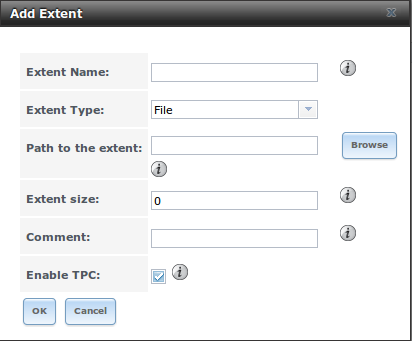
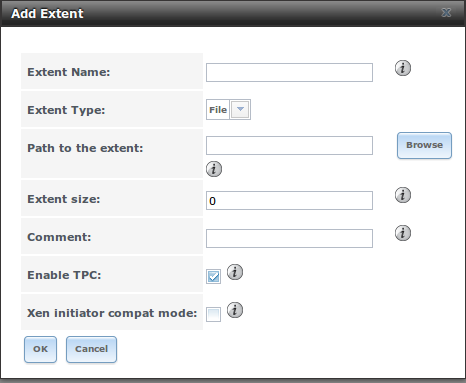
Add Xen initiator compat mode to docs.

diff --git a/docs/userguide/freenas_sharing.rst b/docs/userguide/freenas_sharing.rst
@@ -1317,8 +1317,8 @@ Table 10.5f summarizes the settings that can be configured when creating an exte
 |extent.png|
 
 .. |extent.png| image:: images/extent.png
-    :width: 3.5in
-    :height: 2.8in
+    :width: 3.9in
+    :height: 3.2in
 
 **Table 10.5f: Extent Configuration Settings**
 
@@ -1356,6 +1356,10 @@ Table 10.5f summarizes the settings that can be configured when creating an exte
 +--------------------+----------------+----------------------------------------------------------------------------------------------------------------------+
 | Enable TPC         | checkbox       | if checked, an initiator can bypass normal access control and access any scannable target; this allows               |
 |                    |                | :command:`xcopy` operations otherwise blocked by access control                                                      |
+|                    |                |                                                                                                                      |
++--------------------+----------------+----------------------------------------------------------------------------------------------------------------------+
+| Xen initiator      | checkbox       | check this box when using Xen as the iSCSI initiator                                                                 |
+| compat mode        |                |                                                                                                                      |
 |                    |                |                                                                                                                      |
 +--------------------+----------------+----------------------------------------------------------------------------------------------------------------------+
 

diff --git a/docs/userguide/freenas_intro.rst b/docs/userguide/freenas_intro.rst
@@ -320,7 +320,8 @@ The following fields have been added or deleted:
 * :menuselection:`Storage --> Block (iSCSI) --> Target Global Configuration` has been reduced to the configuration options used by kernel iSCSI. The "ISNS
   Servers" and "Pool Available Size Threshold" fields have been added.
 
-* The "Available Size Threshold" and "Enable TPC" fields have been added to :menuselection:`Storage --> Block (iSCSI) --> Extents --> Add Extent`.
+* The "Available Size Threshold", "Enable TPC", and "Xen initiator compat mode" fields have been added to
+  :menuselection:`Storage --> Block (iSCSI) --> Extents --> Add Extent`.
 
 * The "Target Flags" and "Queue Depth" fields are now deprecated and have been removed from
   :menuselection:`Storage --> (Block) iSCSI --> Targets --> Add Target`.
